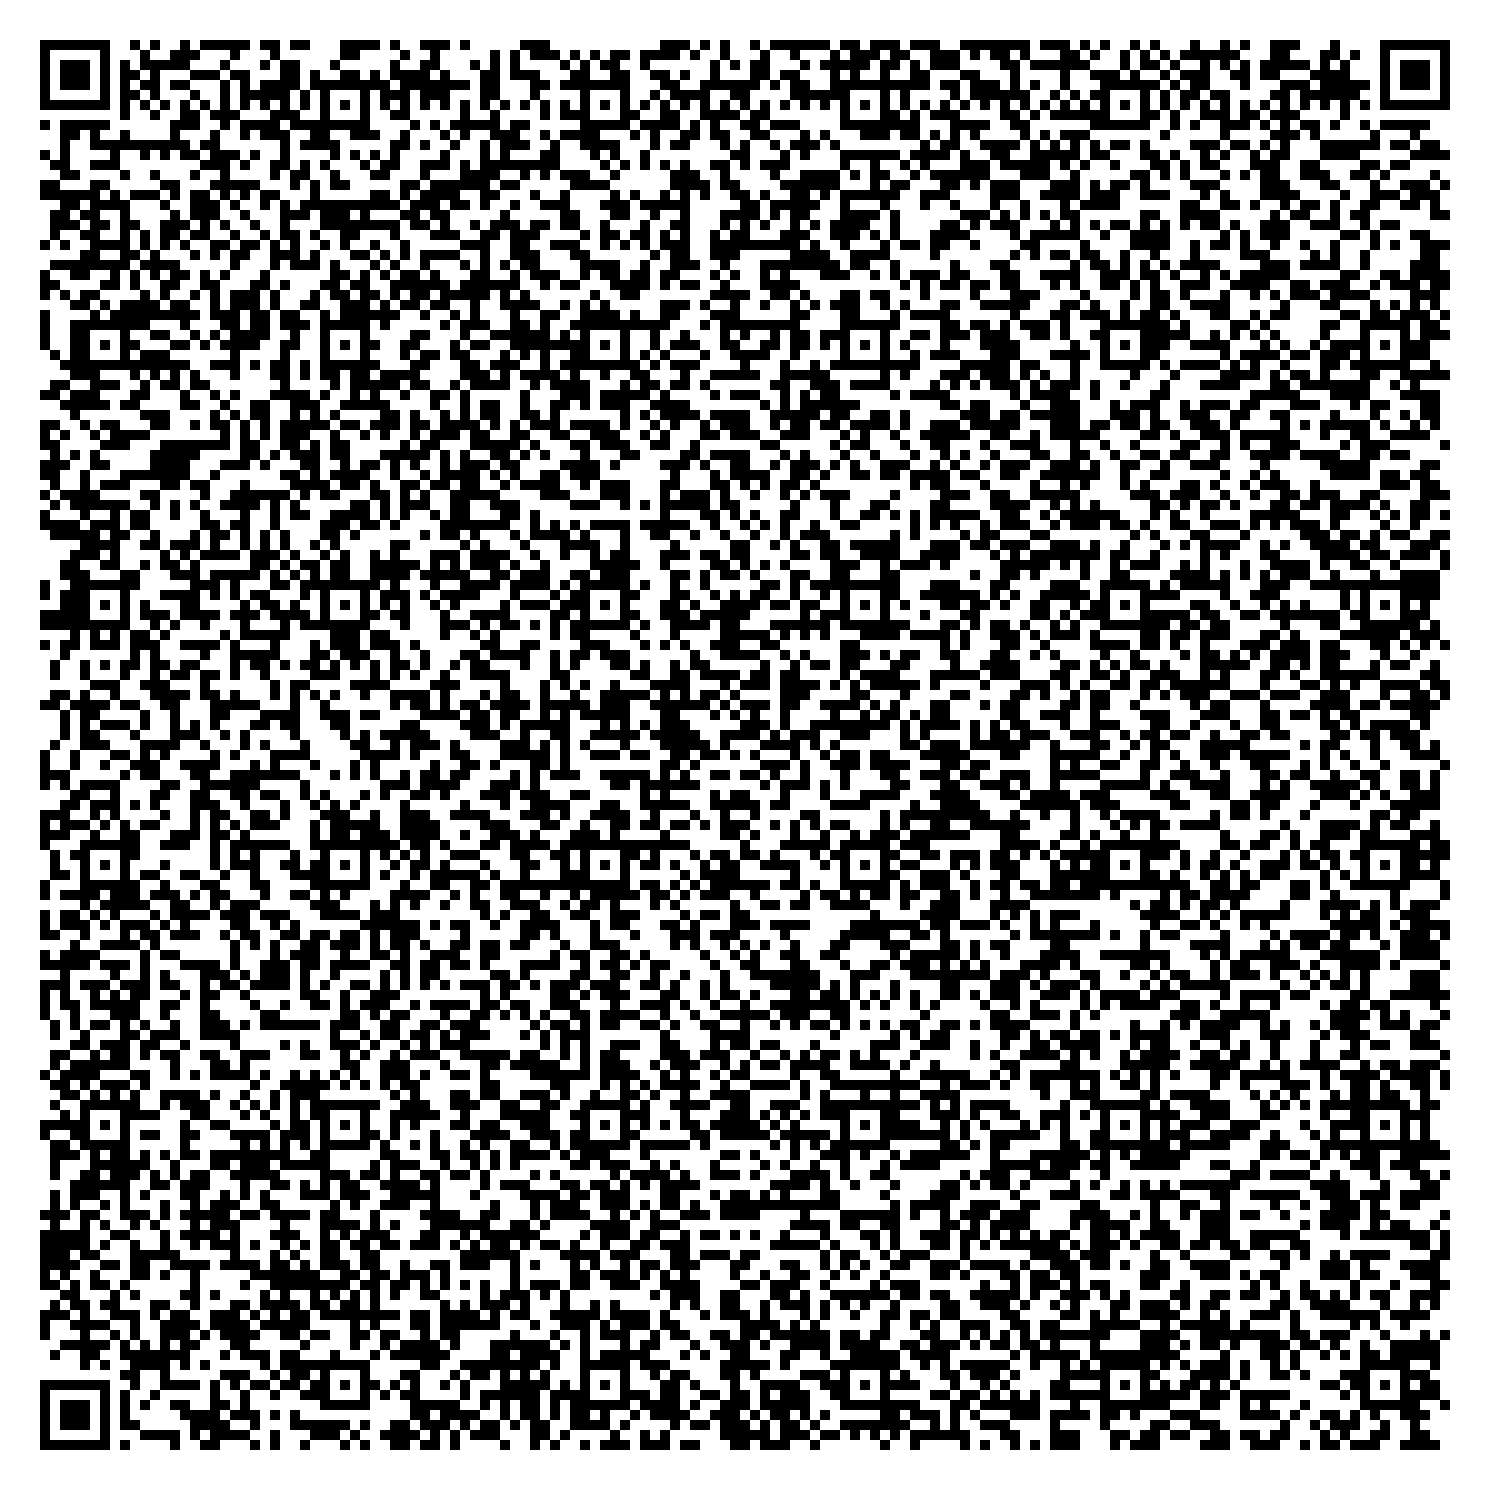
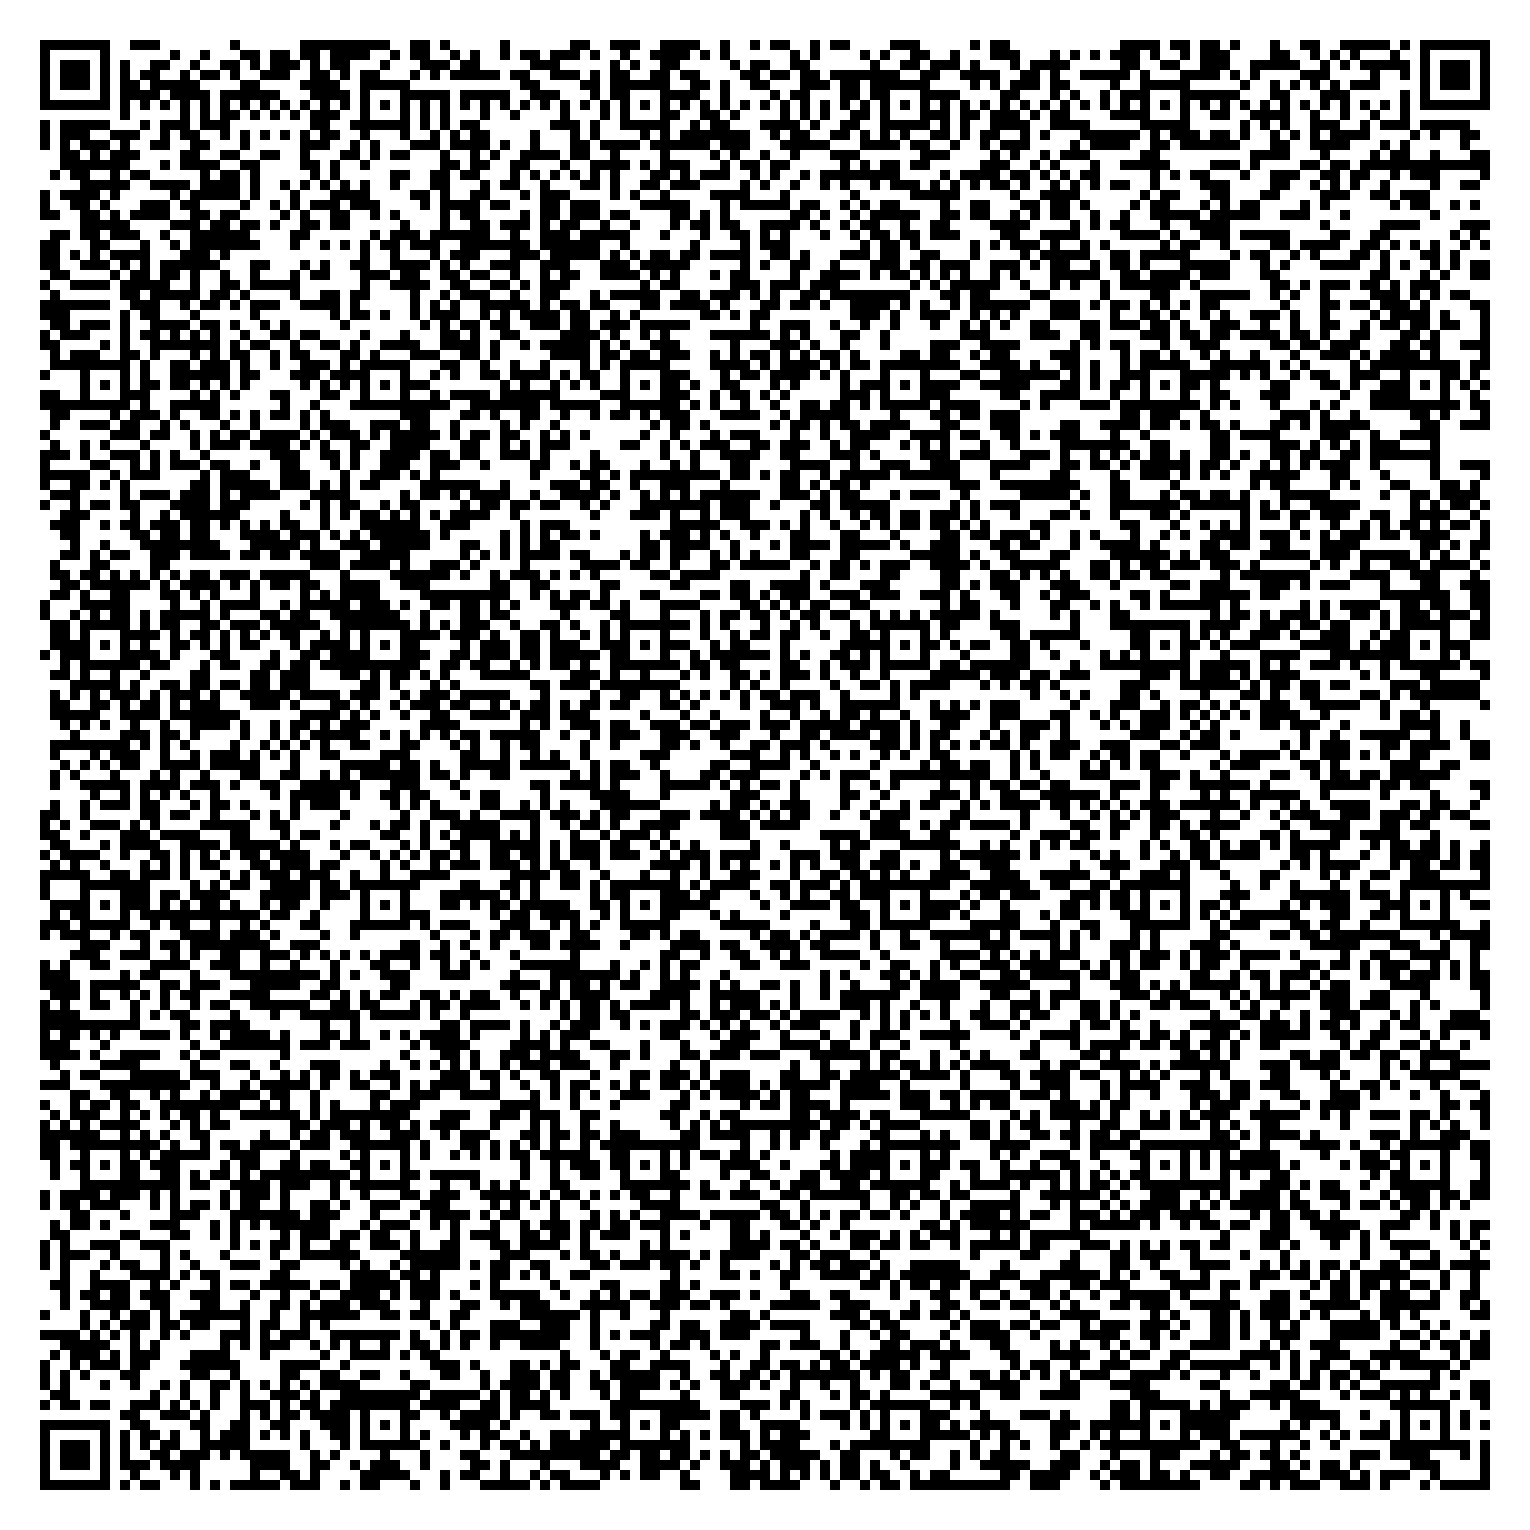
Fixed QR issues and added github hosted endpoint for making it work on android

diff --git a/apps/hello/index.min.html b/apps/hello/index.min.html
@@ -1,0 +1,1 @@
+<body></body><script>alert('Hello world!!')</script>

diff --git a/src/main/python/minify_to_qr.py b/src/main/python/minify_to_qr.py
@@ -18,13 +18,13 @@ def generateQR(file:str)->str:
     f=open(file)
     data = f.read()
     ascii=data.encode('utf-8')
-    encoded=f'data:text/html;base64, {base64.b64encode(ascii).decode("utf-8")}'
-    print(encoded)
+    encoded=f'https://raw.githack.com/sachinpawar9322/jsqr/master/index.html#{base64.b64encode(ascii).decode("utf-8")}'
+    print(f'encoded = {encoded}')
     img = qrcode.make(encoded)
     type(img)  
     outputPath='/'.join(file.split('/')[:-1])+'/qr.png'
     img.save(outputPath)
-    outputPath
+    return outputPath
 
 
 def minifyToQR(inputPath:str)->str:
@@ -35,5 +35,6 @@ def minifyToQR(inputPath:str)->str:
 
 if __name__ == "__main__":
     path=sys.argv[1]
-    qrPath=generateQR(path)
+    qrPath=minifyToQR(path)
+    print(f'Source: {path} \n Result: {qrPath}')
     
